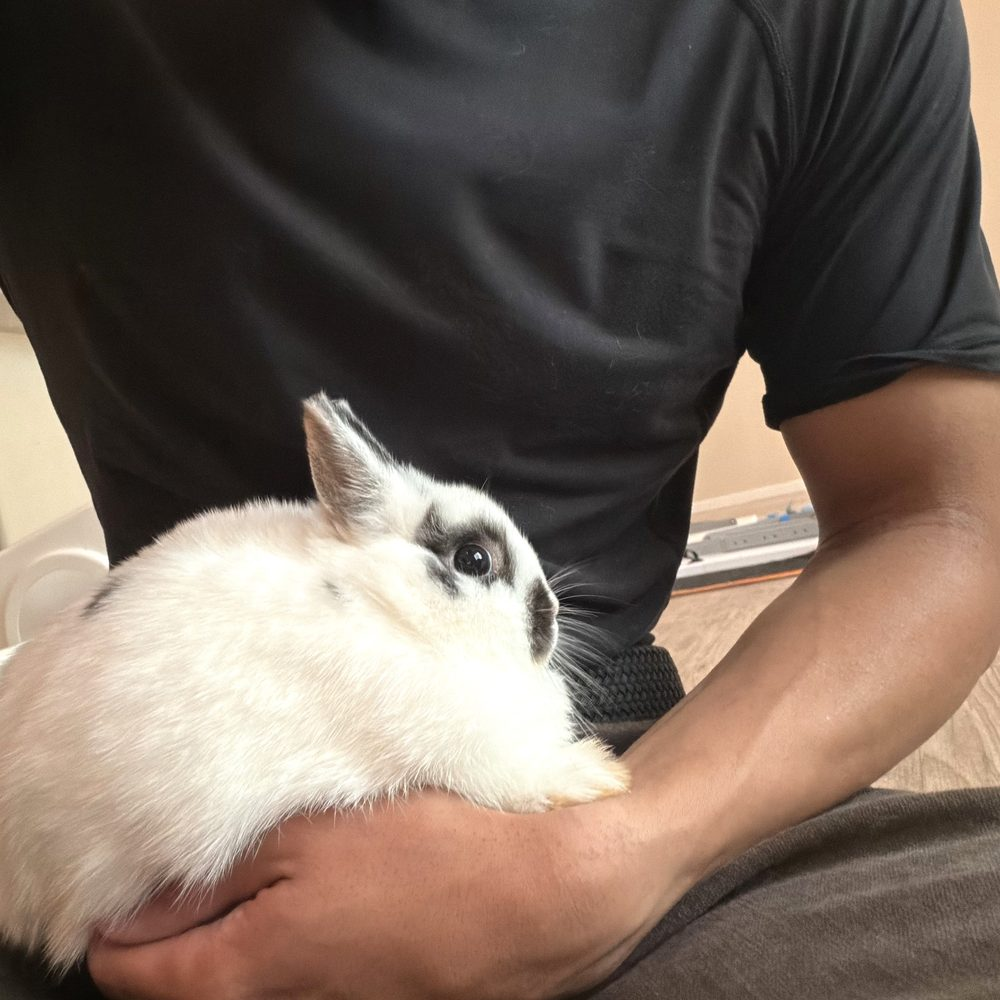
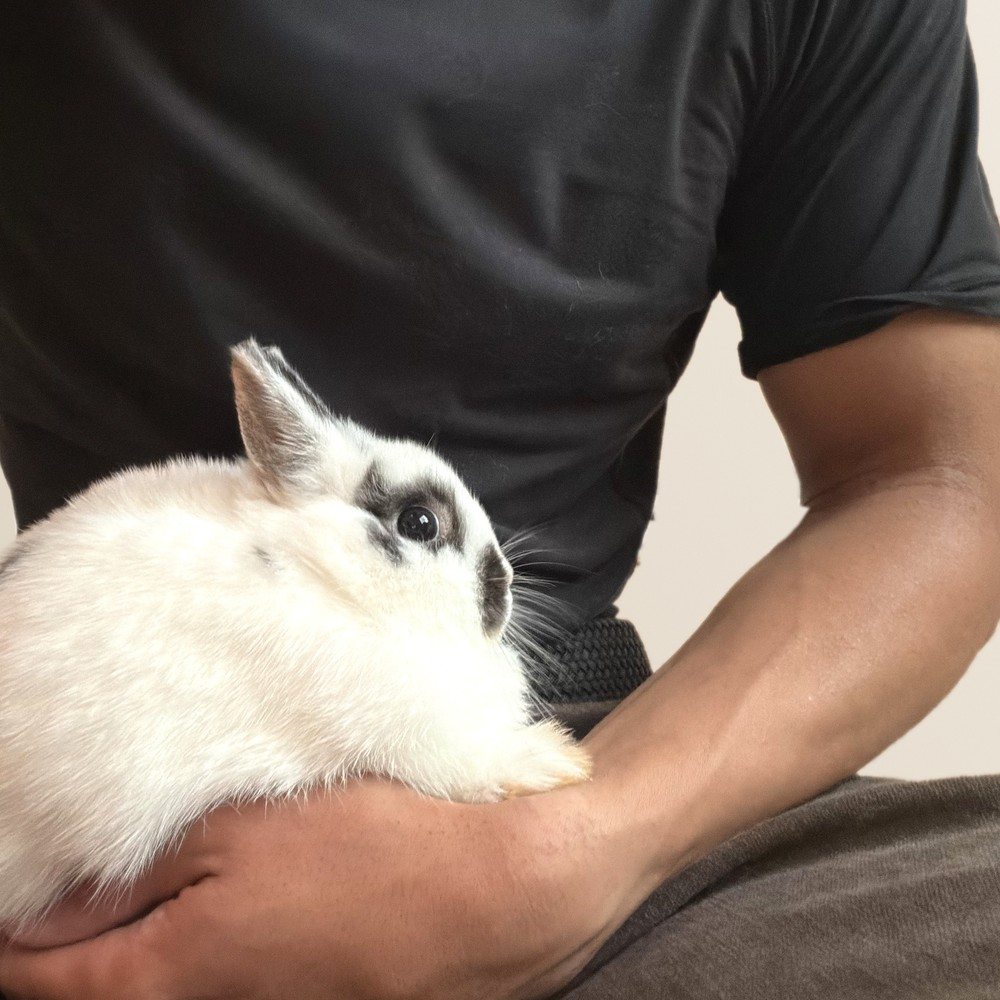
About photo: the room behind William replaced with a plain backdrop
At William's request for a cleaner setting that fits the site: the About photo is cropped a little tighter and the room behind him (a litter tray, a drying rack, the floor) is replaced with a plain warm backdrop in the site's paper tones. William and the rabbit are the photograph's own pixels, untouched; no generated body, no pose change, nothing done to the rabbit.

Claude-Session: https://claude.ai/code/session_01VUqLFuDNtaLypySjv9cGdS

diff --git a/index.html b/index.html
@@ -763,7 +763,7 @@ header.nav.stuck{border-bottom-color:var(--line)}
 .about-story{grid-column:1;grid-row:2;margin-top:14px}
 .about-story p+p,.about-head p+p{margin-top:14px}
 .about-media{grid-column:2;grid-row:1/3;align-self:stretch}
-.about-media img{border-radius:var(--r);object-fit:cover;object-position:40% 85%;width:100%;height:100%;min-height:340px}
+.about-media img{border-radius:var(--r);object-fit:cover;object-position:40% 75%;width:100%;height:100%;min-height:340px}
 .lede b{color:var(--ink);font-weight:600}
 @media(max-width:900px){.about-grid{grid-template-columns:1fr;gap:22px}
   .about-head,.about-story,.about-media{grid-column:1;grid-row:auto}.about-story{margin-top:0}
@@ -1981,11 +1981,16 @@ body.locked{overflow:hidden}
       <!-- WILLIAM'S OWN PHOTO (5 Sept 2026, Tucson): one of the six Netherland
            Dwarfs that came home that day, sitting on his lap with his hand under
            it. His face is out of frame; a retake with his face in it replaces
-           this file and this alt when it lands. The file is his photograph
-           levelled and cropped square, nothing else: no generated or altered
-           pixels, on purpose, because the About is a record a buyer can check
-           and a doctored breeder photo is the one image on the site that could
-           be caught. -->
+           this file and this alt when it lands. What was done to the file, and
+           only this (6 Sept 2026, at his request for a cleaner setting that
+           fits the site): levelled, cropped square, and the ROOM BEHIND HIM
+           (a litter tray, a drying rack, the floor) replaced with a plain warm
+           backdrop in the site's own paper tones. William and the rabbit are
+           his photograph's own pixels, untouched: no generated body, no pose
+           change, nothing done to the rabbit. A studio backdrop is a
+           presentation choice a buyer can see for what it is; a generated
+           breeder would be a fake on the one section that promises a record
+           you can check, so that line is not crossed. -->
       <img src="img/about.jpg"
            alt="A white Netherland Dwarf with black around its eyes sitting calmly on William's lap, his hand under it" width="1000" height="1000" loading="lazy">
     </div>
